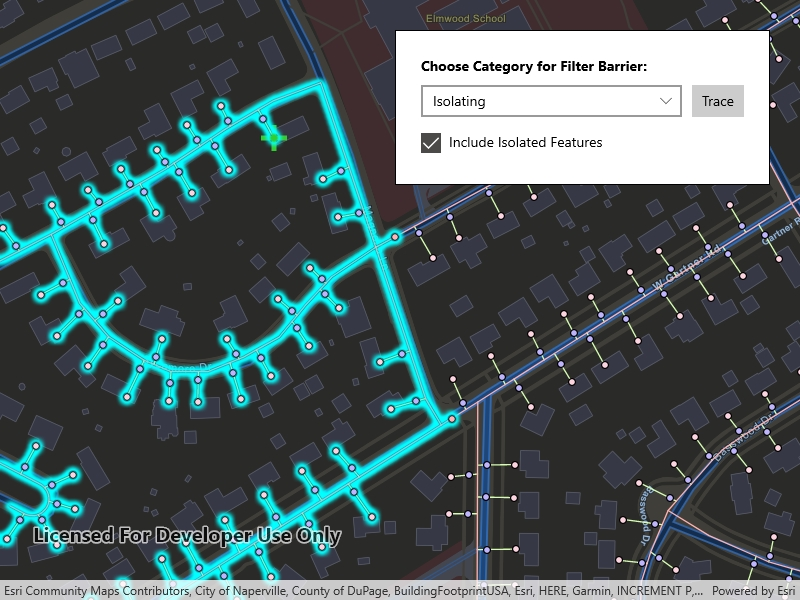
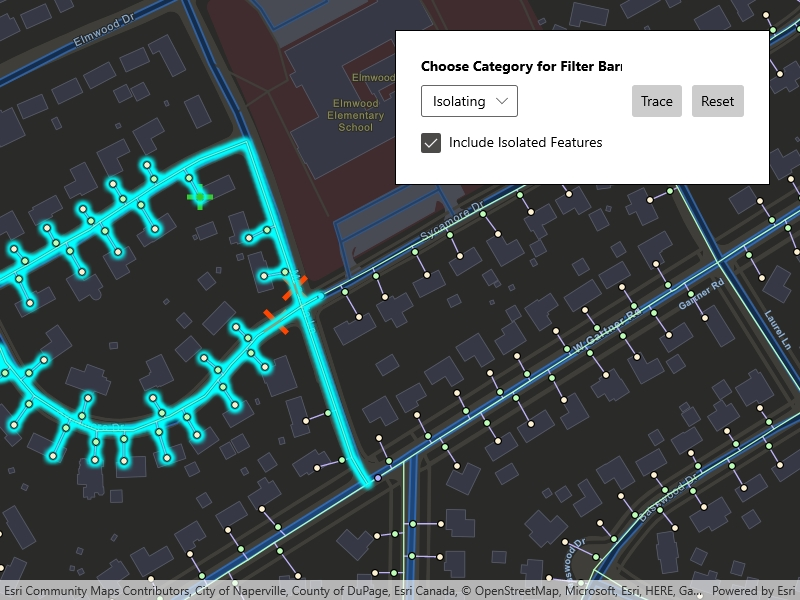
UWP

diff --git a/src/UWP/ArcGISRuntime.UWP.Viewer/Samples/Utility network/PerformValveIsolationTrace/PerformValveIsolationTrace.xaml b/src/UWP/ArcGISRuntime.UWP.Viewer/Samples/Utility network/PerformValveIsolationTrace/PerformValveIsolationTrace.xaml
@@ -1,14 +1,13 @@
-<UserControl
-    x:Class="ArcGISRuntime.UWP.Samples.PerformValveIsolationTrace.PerformValveIsolationTrace"
-    xmlns="http://schemas.microsoft.com/winfx/2006/xaml/presentation"
-    xmlns:x="http://schemas.microsoft.com/winfx/2006/xaml"
-    xmlns:esriUI="using:Esri.ArcGISRuntime.UI.Controls">
+<UserControl x:Class="ArcGISRuntime.UWP.Samples.PerformValveIsolationTrace.PerformValveIsolationTrace"
+             xmlns="http://schemas.microsoft.com/winfx/2006/xaml/presentation"
+             xmlns:x="http://schemas.microsoft.com/winfx/2006/xaml"
+             xmlns:esriUI="using:Esri.ArcGISRuntime.UI.Controls">
     <Grid>
-        <esriUI:MapView x:Name="MyMapView" />
-        <Border
-            HorizontalAlignment="Right"
-            VerticalAlignment="Top"
-            Style="{StaticResource BorderStyle}">
+        <esriUI:MapView x:Name="MyMapView" GeoViewTapped="OnGeoViewTapped" />
+        <Border x:Name="MainUI"
+                HorizontalAlignment="Right"
+                VerticalAlignment="Top"
+                Style="{StaticResource BorderStyle}">
             <Grid x:Name="FilterOptions">
                 <Grid.RowDefinitions>
                     <RowDefinition Height="Auto" />
@@ -18,43 +17,71 @@
                 <Grid.ColumnDefinitions>
                     <ColumnDefinition Width="*" />
                     <ColumnDefinition Width="Auto" />
+                    <ColumnDefinition Width="Auto" />
                 </Grid.ColumnDefinitions>
-                <TextBlock
-                    Margin="5"
-                    FontWeight="Bold"
-                    Text="Choose Category for Filter Barrier:" />
-                <ComboBox
-                    x:Name="Categories"
-                    Grid.Row="1"
-                    Margin="5"
-                    HorizontalAlignment="Stretch">
+                <TextBlock Margin="5"
+                           FontWeight="Bold"
+                           Text="Choose Category for Filter Barrier:" />
+                <ComboBox x:Name="Categories"
+                          Grid.Row="1"
+                          Margin="5">
                     <ComboBox.ItemTemplate>
                         <DataTemplate>
                             <TextBlock Text="{Binding Name}" />
                         </DataTemplate>
                     </ComboBox.ItemTemplate>
                 </ComboBox>
-                <CheckBox
-                    x:Name="IncludeIsolatedFeatures"
-                    Grid.Row="2"
-                    Margin="5"
-                    Content="Include Isolated Features" />
-                <Button
-                    Grid.Row="1"
-                    Grid.Column="2"
-                    Margin="5"
-                    Click="OnTrace"
-                    Content="Trace" />
+                <CheckBox x:Name="IncludeIsolatedFeatures"
+                          Grid.Row="2"
+                          Margin="5"
+                          Content="Include Isolated Features" />
+                <Button Grid.Row="1"
+                        Grid.Column="1"
+                        Margin="5"
+                        Click="OnTrace"
+                        Content="Trace" />
+                <Button Grid.Row="1"
+                        Grid.Column="2"
+                        Margin="5"
+                        Click="OnReset"
+                        Content="Reset" />
             </Grid>
         </Border>
-        <ProgressBar
-            x:Name="LoadingBar"
-            Width="200"
-            Height="25"
-            HorizontalContentAlignment="Center"
-            VerticalContentAlignment="Center"
-            IsIndeterminate="True"
-            Visibility="Visible" />
+        <ProgressBar x:Name="LoadingBar"
+                     Width="200"
+                     Height="25"
+                     HorizontalContentAlignment="Center"
+                     VerticalContentAlignment="Center"
+                     IsIndeterminate="True"
+                     Visibility="Visible" />
+        <Border Name="TerminalPicker"
+                HorizontalAlignment="Center"
+                VerticalAlignment="Center"
+                Style="{StaticResource BorderStyle}"
+                Visibility="Collapsed">
+            <Grid>
+                <Grid.RowDefinitions>
+                    <RowDefinition />
+                    <RowDefinition />
+                    <RowDefinition />
+                </Grid.RowDefinitions>
+                <TextBlock Grid.Row="0"
+                           Margin="5"
+                           Text="Select the terminal for this junction." />
+                <ComboBox x:Name="Picker"
+                          Grid.Row="1"
+                          Margin="5">
+                    <ComboBox.ItemTemplate>
+                        <DataTemplate>
+                            <TextBlock Text="{Binding Name}" />
+                        </DataTemplate>
+                    </ComboBox.ItemTemplate>
+                </ComboBox>
+                <Button Grid.Row="2"
+                        Margin="5"
+                        Click="OnTerminalSelected"
+                        Content="Select" />
+            </Grid>
+        </Border>
     </Grid>
 </UserControl>
-

diff --git a/src/UWP/ArcGISRuntime.UWP.Viewer/Samples/Utility network/PerformValveIsolationTrace/PerformValveIsolationTrace.xaml.cs b/src/UWP/ArcGISRuntime.UWP.Viewer/Samples/Utility network/PerformValveIsolationTrace/PerformValveIsolationTrace.xaml.cs
@@ -1,4 +1,4 @@
-// Copyright 2020 Esri.
+// Copyright 2021 Esri.
 //
 // Licensed under the Apache License, Version 2.0 (the "License"); you may not use this file except in compliance with the License.
 // You may obtain a copy of the License at: http://www.apache.org/licenses/LICENSE-2.0
@@ -13,10 +13,12 @@ using Esri.ArcGISRuntime.Mapping;
 using Esri.ArcGISRuntime.Security;
 using Esri.ArcGISRuntime.Symbology;
 using Esri.ArcGISRuntime.UI;
+using Esri.ArcGISRuntime.UI.Controls;
 using Esri.ArcGISRuntime.UtilityNetworks;
 using System;
 using System.Collections.Generic;
 using System.Linq;
+using System.Threading.Tasks;
 using Windows.UI.Popups;
 using Windows.UI.Xaml;
 
@@ -47,6 +49,12 @@ namespace ArcGISRuntime.UWP.Samples.PerformValveIsolationTrace
         private const string AssetTypeName = "Customer";
         private const string GlobalId = "{98A06E95-70BE-43E7-91B7-E34C9D3CB9FF}";
         private UtilityElement _startingLocation;
+
+        private UtilityTraceParameters _parameters;
+        private GraphicsOverlay _barrierOverlay;
+
+        // Task completion source for the user selected terminal.
+        private TaskCompletionSource<UtilityTerminal> _terminalCompletionSource = null;
 
         public PerformValveIsolationTrace()
         {
@@ -113,6 +121,12 @@ namespace ArcGISRuntime.UWP.Samples.PerformValveIsolationTrace
                 Graphic graphic = new Graphic(startingLocationGeometry, symbol);
                 overlay.Graphics.Add(graphic);
 
+                _barrierOverlay = new GraphicsOverlay();
+                MyMapView.GraphicsOverlays.Add(_barrierOverlay);
+
+                // Create the utility trace parameters.
+                _parameters = new UtilityTraceParameters(UtilityTraceType.Isolation, new[] { _startingLocation });
+
                 // Set the starting viewpoint.
                 await MyMapView.SetViewpointAsync(new Viewpoint(startingLocationGeometry, 3000));
 
@@ -149,18 +163,17 @@ namespace ArcGISRuntime.UWP.Samples.PerformValveIsolationTrace
                     UtilityCategoryComparison categoryComparison = new UtilityCategoryComparison(category, UtilityCategoryComparisonOperator.Exists);
 
                     // Add the filter barrier.
-                    _configuration.Filter.Barriers = categoryComparison;
+                    _configuration.Filter = new UtilityTraceFilter() { Barriers = categoryComparison };
                 }
 
                 // Set the include isolated features property.
                 _configuration.IncludeIsolatedFeatures = IncludeIsolatedFeatures.IsChecked == true;
 
                 // Build parameters for isolation trace.
-                UtilityTraceParameters parameters = new UtilityTraceParameters(UtilityTraceType.Isolation, new[] { _startingLocation });
-                parameters.TraceConfiguration = _configuration;
+                _parameters.TraceConfiguration = _configuration;
 
                 // Get the trace result from trace.
-                IEnumerable<UtilityTraceResult> traceResult = await _utilityNetwork.TraceAsync(parameters);
+                IEnumerable<UtilityTraceResult> traceResult = await _utilityNetwork.TraceAsync(_parameters);
                 UtilityElementTraceResult elementTraceResult = traceResult?.FirstOrDefault() as UtilityElementTraceResult;
 
                 // Select all the features from the result.
@@ -173,6 +186,96 @@ namespace ArcGISRuntime.UWP.Samples.PerformValveIsolationTrace
                         layer.SelectFeatures(features);
                     }
                 }
+            }
+            catch (Exception ex)
+            {
+                await new MessageDialog(ex.Message, ex.GetType().Name).ShowAsync();
+            }
+            finally
+            {
+                LoadingBar.Visibility = Visibility.Collapsed;
+            }
+        }
+
+        private void OnReset(object sender, RoutedEventArgs e)
+        {
+            _parameters.Barriers.Clear();
+            _barrierOverlay.Graphics.Clear();
+            foreach (FeatureLayer layer in MyMapView.Map.OperationalLayers.OfType<FeatureLayer>())
+            {
+                layer.ClearSelection();
+            }
+        }
+
+        private async Task<UtilityTerminal> GetTerminalAsync(IEnumerable<UtilityTerminal> terminals)
+        {
+            try
+            {
+                MyMapView.GeoViewTapped -= OnGeoViewTapped;
+                TerminalPicker.Visibility = Visibility.Visible;
+                MainUI.Visibility = Visibility.Collapsed;
+                Picker.ItemsSource = terminals;
+                Picker.SelectedIndex = 1;
+
+                // Waits for user to select a terminal.
+                _terminalCompletionSource = new TaskCompletionSource<UtilityTerminal>();
+                return await _terminalCompletionSource.Task;
+            }
+            finally
+            {
+                TerminalPicker.Visibility = Visibility.Collapsed;
+                MainUI.Visibility = Visibility.Visible;
+                MyMapView.GeoViewTapped += OnGeoViewTapped;
+            }
+        }
+
+        private void OnTerminalSelected(object sender, RoutedEventArgs e)
+        {
+            _terminalCompletionSource.TrySetResult(Picker.SelectedItem as UtilityTerminal);
+        }
+
+        private async void OnGeoViewTapped(object sender, GeoViewInputEventArgs e)
+        {
+            try
+            {
+                LoadingBar.Visibility = Visibility.Visible;
+
+                // Identify the feature to be used.
+                IEnumerable<IdentifyLayerResult> identifyResult = await MyMapView.IdentifyLayersAsync(e.Position, 10.0, false);
+                ArcGISFeature feature = identifyResult?.FirstOrDefault()?.GeoElements?.FirstOrDefault() as ArcGISFeature;
+                if (feature == null) { return; }
+
+                // Create element from the identified feature.
+                UtilityElement element = _utilityNetwork.CreateElement(feature);
+
+                if (element.NetworkSource.SourceType == UtilityNetworkSourceType.Junction)
+                {
+                    // Select terminal for junction feature.
+                    IEnumerable<UtilityTerminal> terminals = element.AssetType.TerminalConfiguration?.Terminals;
+                    if (terminals?.Count() > 1)
+                    {
+                        element.Terminal = await GetTerminalAsync(terminals);
+                    }
+                }
+                else if (element.NetworkSource.SourceType == UtilityNetworkSourceType.Edge)
+                {
+                    // Compute how far tapped location is along the edge feature.
+                    if (feature.Geometry is Polyline line)
+                    {
+                        line = GeometryEngine.RemoveZ(line) as Polyline;
+                        double fraction = GeometryEngine.FractionAlong(line, e.Location, -1);
+                        if (double.IsNaN(fraction)) { return; }
+                        element.FractionAlongEdge = fraction;
+                    }
+                }
+
+                // Check whether starting location or barrier is added to update the right collection and symbology.
+                _parameters.Barriers.Add(element);
+                Symbol symbol = new SimpleMarkerSymbol(SimpleMarkerSymbolStyle.X, System.Drawing.Color.OrangeRed, 25d);
+
+                // Add a graphic for the new utility element.
+                Graphic traceLocationGraphic = new Graphic(feature.Geometry as MapPoint ?? e.Location, symbol);
+                _barrierOverlay.Graphics.Add(traceLocationGraphic);
             }
             catch (Exception ex)
             {
